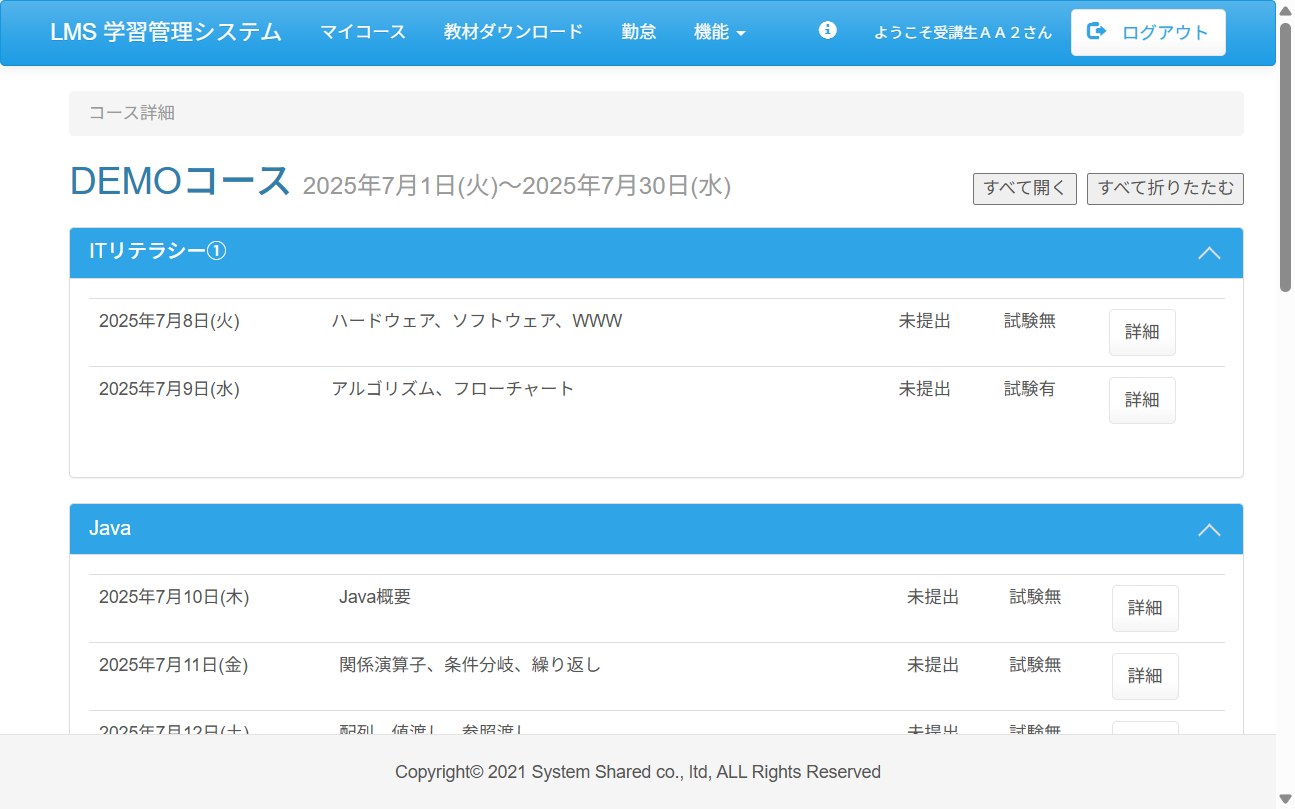
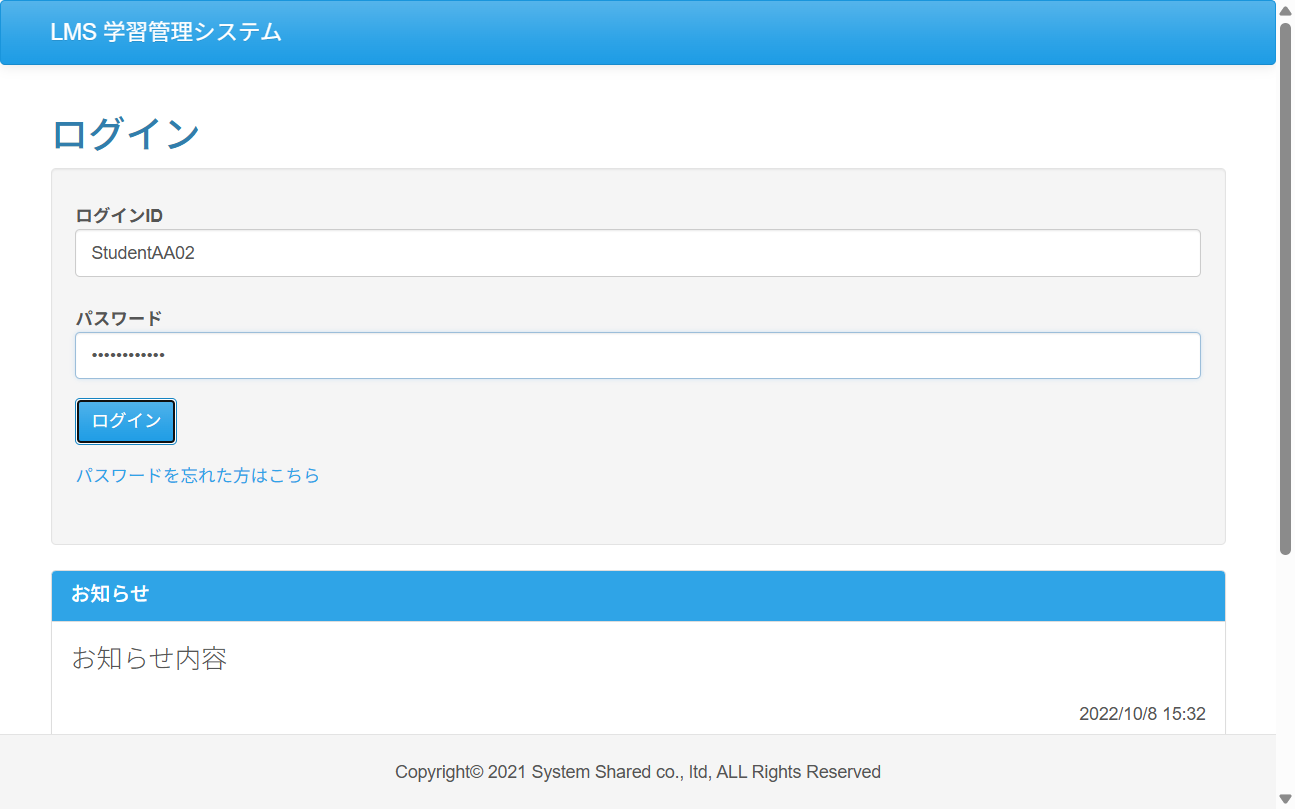
fix:Case5.埜本明希　スクリーンショットがうまく取れていなかったためスクロール処理の記述とエビデンスの修正

diff --git a/test_code_creation_name/src/test/java/jp/co/sss/lms/ct/f02_faq/Case05.java b/test_code_creation_name/src/test/java/jp/co/sss/lms/ct/f02_faq/Case05.java
@@ -157,8 +157,12 @@ public class Case05 {
 
 		}
 
+		scrollTo("200");
+
 		getEvidence(new Object() {
 		});
+
+		scrollTo("-200");
 
 	}
 
